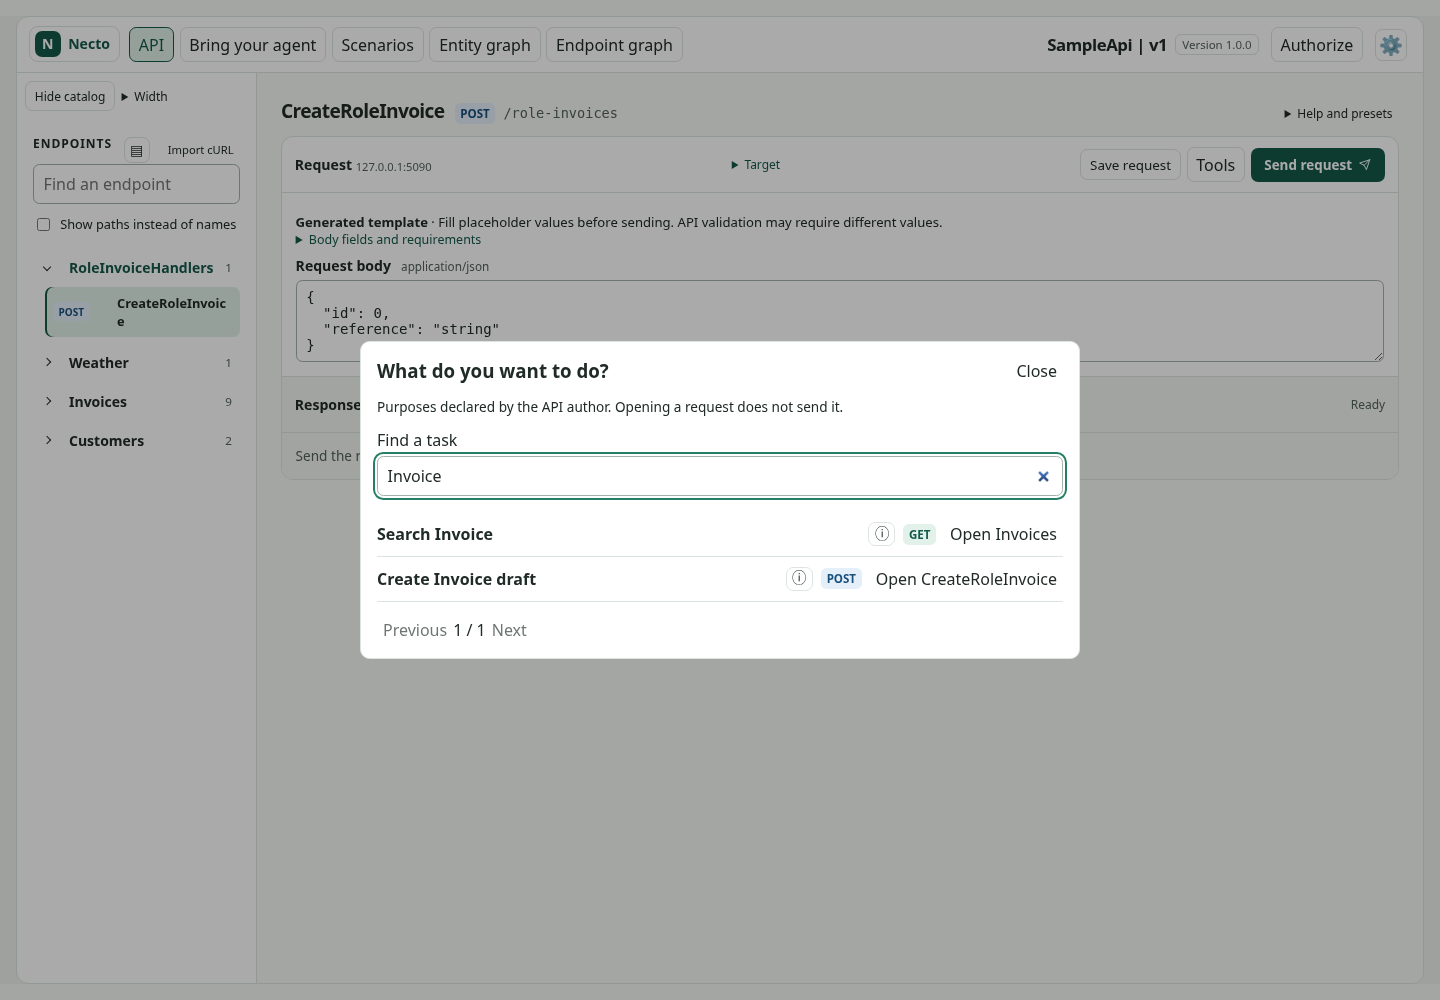
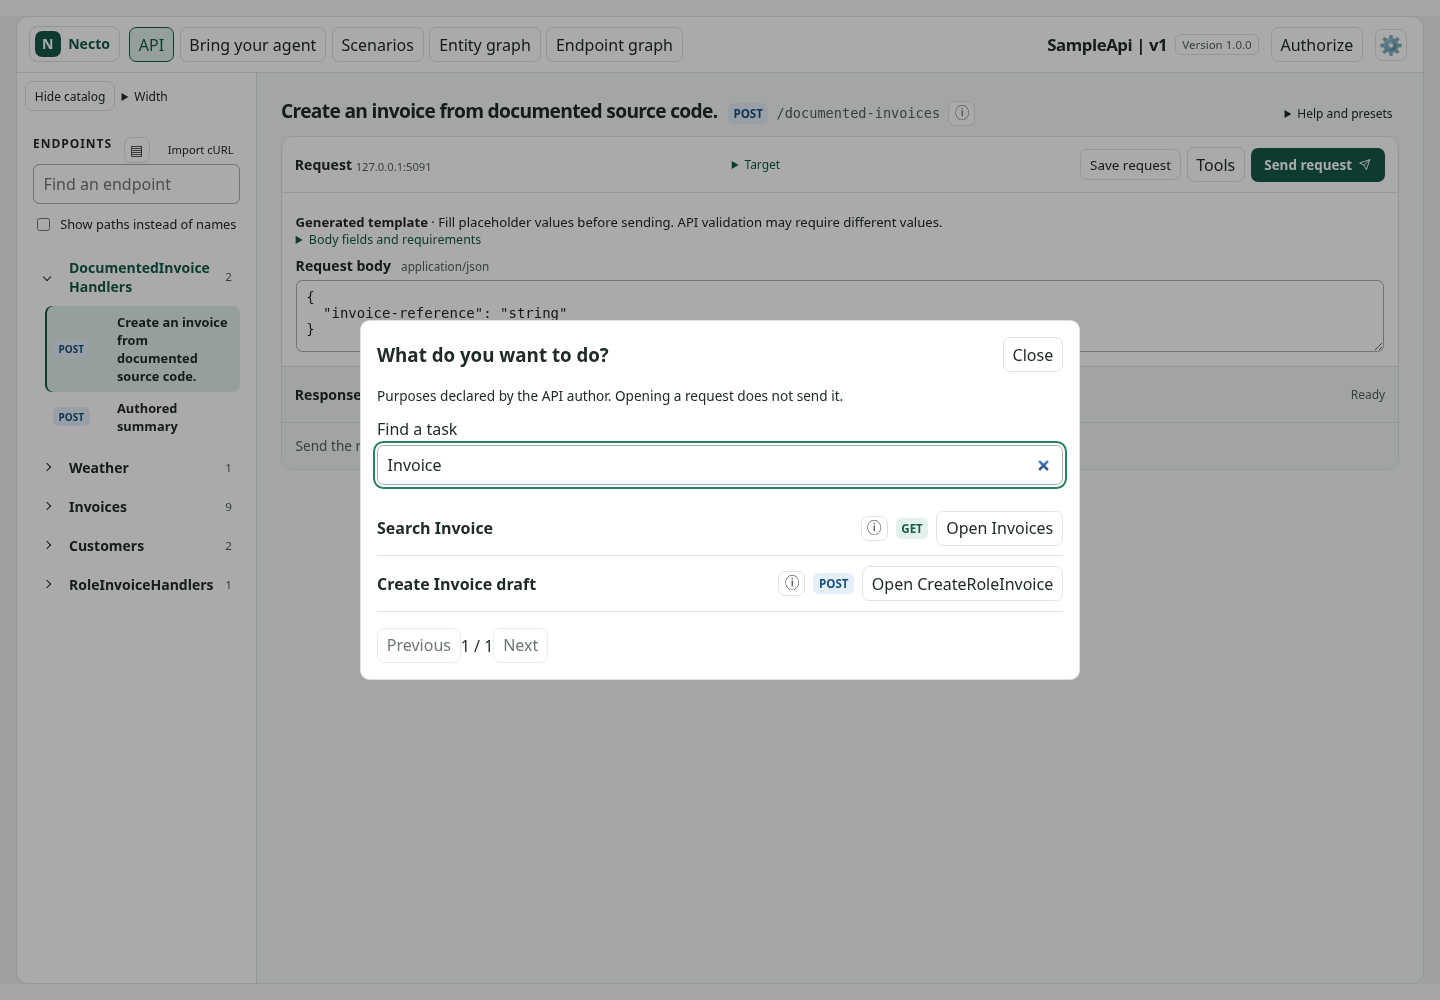
docs: include final desktop and mobile operation task evidence

diff --git a/docs/source-generator/operation-roles.md b/docs/source-generator/operation-roles.md
@@ -17,3 +17,7 @@ The compact **Find by task** button in the endpoint catalog opens a searchable, 
 Validation: 32 .NET Release tests cover declared lambda/method roles, omission of unannotated operations and route discovery; 186 UI/module tests cover scoping, ambiguity, pagination and validation. Chromium verified that a Create task opens the POST editor with zero writes.
 
 ![Author-declared tasks](operation-roles.png)
+
+![Mobile tasks](operation-roles-mobile.png)
+
+Screenshots come from local combined validation of the six generator PRs. Combined checks: 38 .NET integration tests, 8 Roslyn tests, 189 UI/module tests and desktop/mobile browser flows. Selecting tasks performed no writes.
